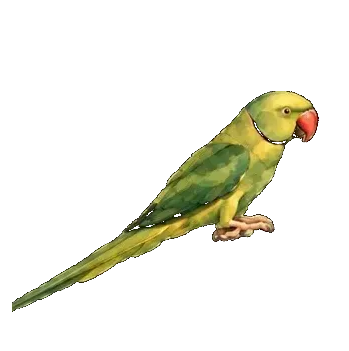
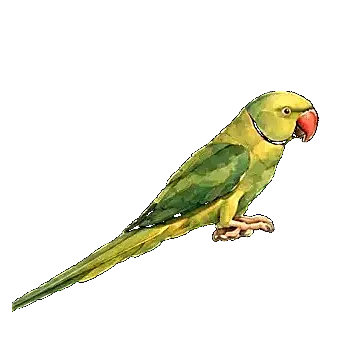
Enhance sharpness, clarity, and rendering resolution across all assets

diff --git a/src/index.css b/src/index.css
@@ -60,6 +60,13 @@ body {
   font-family: var(--font-body, 'Garamond', serif);
   color: #000000;
   -webkit-font-smoothing: antialiased;
+  -moz-osx-font-smoothing: grayscale;
+  text-rendering: optimizeLegibility;
+}
+
+img {
+  image-rendering: -webkit-optimize-contrast;
+  image-rendering: auto;
 }
 
 #root {
@@ -78,7 +85,8 @@ body {
 
 .scroll-reveal.is-visible {
   opacity: 1 !important;
-  transform: translateY(0);
+  transform: none !important;
+  will-change: auto !important;
 }
 
 /* Guard: Ensure section and header background images are never hidden by scroll-reveal */
@@ -86,4 +94,5 @@ section.scroll-reveal,
 header.scroll-reveal {
   opacity: 1 !important;
   transform: none !important;
+  will-change: auto !important;
 }
